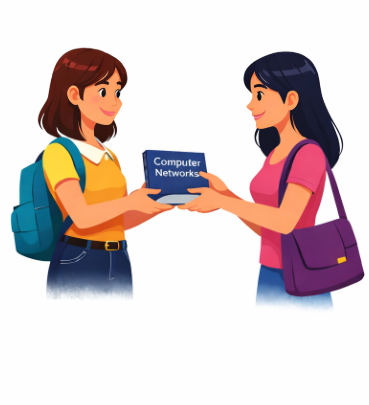
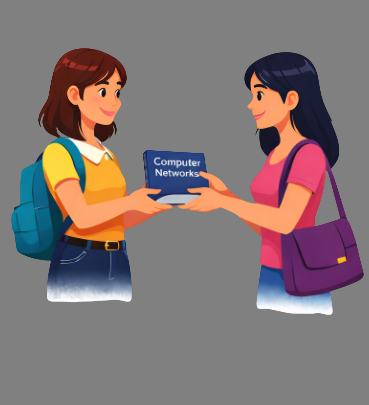
add front page layout

diff --git a/project.html b/project.html
@@ -4,32 +4,28 @@
     <meta charset="UTF-8">
     <meta name="viewport" content="width=device-width, initial-scale=1.0">
     <title>LIBRIS - IIT Patna Study Material Exchange</title>
+    <link rel = "stylesheet" href ="style.css">
 </head>
 <body>
-    <h1>Libris </h1>
-    <img src = "imp.jpeg" width = "200">
-    <p>IIT Patna Study Material Exchange </p>  
-    <frorm action = "/signin.php">
-        <div>
-            <label for = "name"></label>
-            <input id = "name" type = "text" placeholder = "Enter Name" required> 
-        </div>
-        <div>
-            <label for = "email id"></label>
-            <input id = "email" type = "email" placeholder = "Enter Email id " required>
-        </div>
-        <div>
-            <label for = "password"></label>
-            <input id = "password" type = "passwprd" placeholder = "Enter Password" required>
-        </div>
-    </frorm>
-    <img src = "boy.png" width = "500">
-    <img src = "girl.png" width = "500">
-    <div>
-        <button type = "ssignin">Sign In</button>
+    <h1>LIBRIS </h1>
+    <img src = "https://thumbs.dreamstime.com/b/academic-logo-educational-institutions-vector-illustration-professional-designed-featuring-sleek-modern-style-360115837.jpg" class = "logo" >
+    <p>IIT Patna Study Material Exchange </p> 
+    <div class=" main">
+    <img src = "boy.png" class = "leftimg">
+    <form >
+        <input type = "name" type = "text" placeholder = "Enter Name" required> 
+
+
+        <input type = "email" type = "email" placeholder = "Enter Email id " required>
+
+
+        <input type = "password" type = "password" placeholder = "Enter Password" required>
+        
+    </form>
+    <img src = "girl.png" class = "rightimg">
     </div>
-    <div>
-        <button type = "ssignup">Sign Up</button>
-    </div>
+    <button type = "ssignin">Sign In</button><br><br>
+    <button type = "ssignup">Sign Up</button>
+    
 </body>
 </html>

diff --git a/style.css b/style.css
@@ -1,0 +1,45 @@
+
+.main{
+    display:flex;
+    justify-content:center;
+    align-items:center;
+    gap:80px;
+    margin-top:40px;
+}
+body{
+    text-align:center;
+    background-color:grey
+    
+}
+
+
+.logo{
+    
+    width:80px;
+}
+
+
+form{
+    display:flex;
+    flex-direction:column;
+}
+input{
+    height:35px;
+    width:250px;
+    margin:10px;
+    padding:5px;
+}
+
+.leftimg{
+    width:300px;
+    height:300px;
+}
+.rightimg{
+    width:300px;
+    height:300px;
+}
+button{
+    width:120px;
+    height:35px;
+    margin:10px auto;
+}
